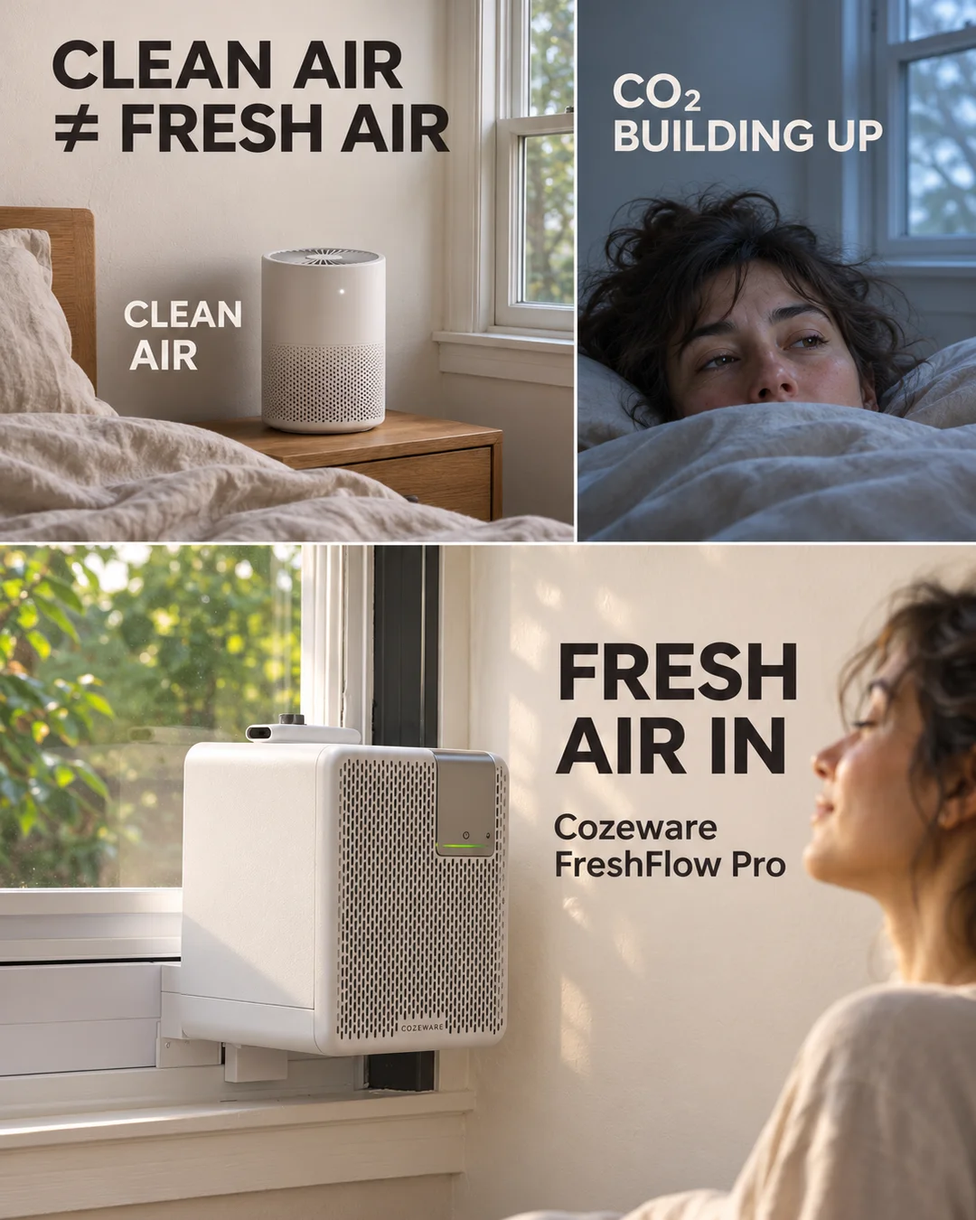
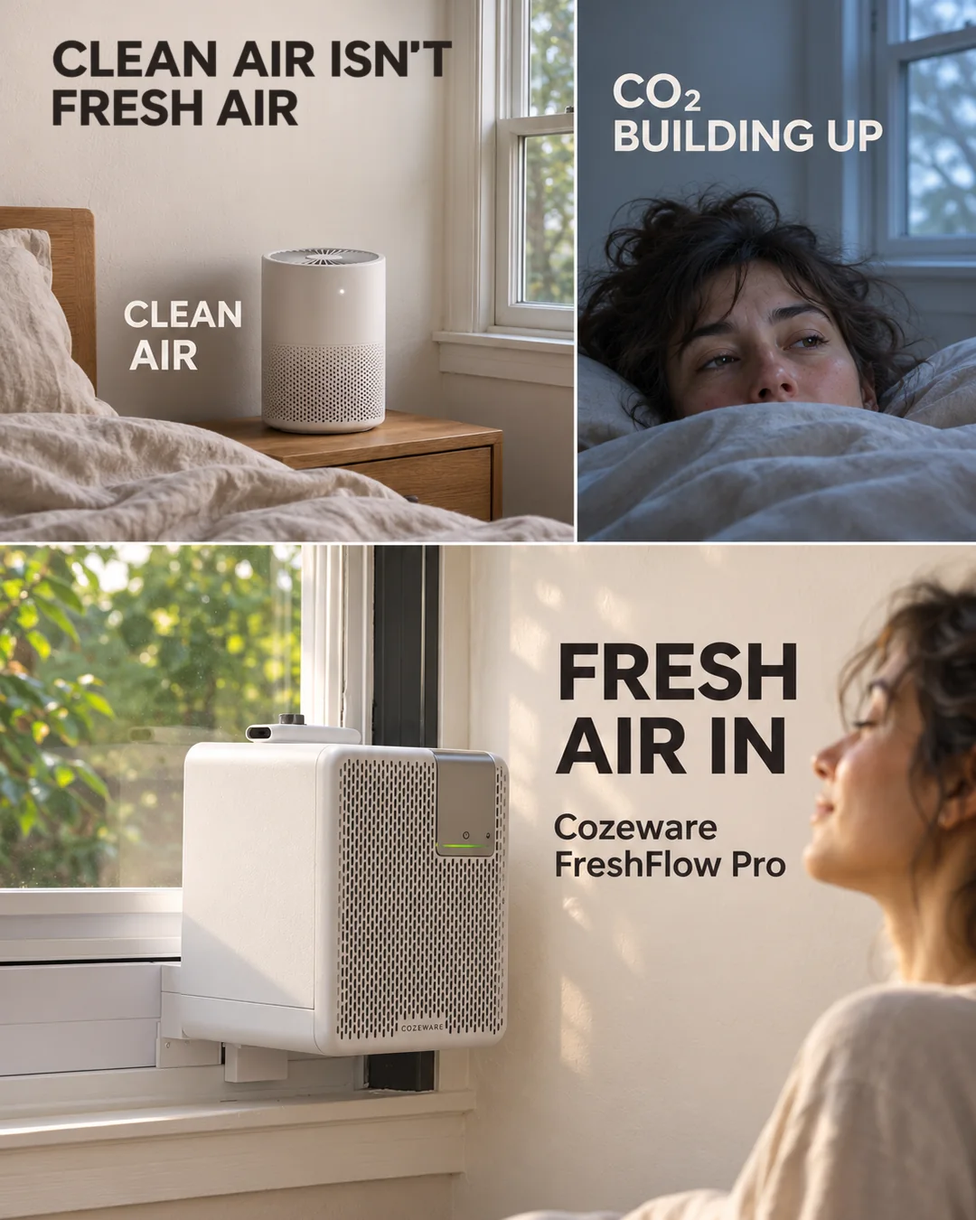
Make giveaway and boost captions conversational, drop math symbols, fix boost title image

Changed region(s): [[0.0306, 0.0311, 0.4583, 0.1244]]

diff --git a/feed-cozeware.html b/feed-cozeware.html
@@ -478,17 +478,17 @@ What is your household&#x27;s official excuse for staying in?</p></div>
 <h3 lang="en">Giveaway story: win a Stanley Quencher</h3>
 <p class="post-context"><span class="post-status" data-status="review">待审 <span lang="en">In review</span></span> · <span lang="en">2026-11-25 12:30 EST</span> · <span class="post-placement" lang="en">Instagram Stories</span></p>
 <div class="post-platforms"><div class="post-platform-switch" role="group" aria-label="平台"><button type="button" data-platform="Instagram" aria-pressed="true">Instagram</button><button type="button" data-platform="Facebook" aria-pressed="false">Facebook</button><button type="button" data-platform="X" aria-pressed="false">X</button><button type="button" data-platform="Threads" aria-pressed="false">Threads</button></div><button type="button" class="post-copy">复制配文</button></div>
-<div class="post-caption" data-feed-platform="Instagram"><p class="feed-caption" lang="en">Our cold-season thank-you to everyone keeping their home cozy: 3 winners, 1 Stanley Quencher H2.0 FlowState 40 oz each. 🧣
-What&#x27;s the one cozy thing nobody may move in your home? Answer on the launch post and tag a friend.
-Follow @cozeware + comment tagging a friend = 1 entry. Share the launch post to your Story = +1 (max 2).
-Ends Dec 1, 11:59 PM ET. US 18+, no purchase necessary. Rules in bio.</p></div>
-<div class="post-caption" data-feed-platform="Facebook" hidden><p class="feed-caption" lang="en">Our cold-season thank-you to everyone keeping their home cozy: 3 winners, 1 Stanley Quencher H2.0 FlowState 40 oz each. 🧣
-What&#x27;s the one cozy thing nobody may move in your home? Answer on the launch post and name a friend.
-Follow the Cozeware page + comment = 1 entry. Ends Dec 1, 11:59 PM ET. US 18+, no purchase necessary. Rules in the first comment.</p></div>
-<div class="post-caption" data-feed-platform="X" hidden><p class="feed-caption" lang="en">Cold-season thank-you: 3 of you win a Stanley Quencher H2.0 FlowState 40 oz. 🧣 What cozy thing in your home is off-limits? Follow @cozeware + reply tagging a friend on the launch post. Ends Dec 1, 11:59 PM ET. US 18+, no purchase necessary. Rules in bio.</p></div>
-<div class="post-caption" data-feed-platform="Threads" hidden><p class="feed-caption" lang="en">Our cold-season thank-you to everyone keeping their home cozy: 3 winners, 1 Stanley Quencher H2.0 FlowState 40 oz each. 🧣
-What&#x27;s the one cozy thing nobody may move in your home? Answer on the launch post and tag a friend.
-Follow @cozeware + reply = 1 entry. Ends Dec 1, 11:59 PM ET. US 18+, no purchase necessary. Rules in our profile.</p></div>
+<div class="post-caption" data-feed-platform="Instagram"><p class="feed-caption" lang="en">Cold-season thank-you! 🧣 We&#x27;re giving 3 of you a Stanley Quencher H2.0 FlowState 40 oz.
+What&#x27;s the one cozy thing nobody&#x27;s allowed to move in your house? Tell us on the launch post and tag a friend.
+Follow us to enter, and share the post to your Story for a bonus entry.
+Ends Dec 1, 11:59 PM ET. US 18 and up, nothing to buy. Rules in bio.</p></div>
+<div class="post-caption" data-feed-platform="Facebook" hidden><p class="feed-caption" lang="en">Cold-season thank-you! 🧣 We&#x27;re giving 3 of you a Stanley Quencher H2.0 FlowState 40 oz.
+What&#x27;s the one cozy thing nobody&#x27;s allowed to move in your house? Tell us on the launch post and name a friend.
+Follow our page to enter. Ends Dec 1, 11:59 PM ET. US 18 and up, nothing to buy. Rules in the first comment.</p></div>
+<div class="post-caption" data-feed-platform="X" hidden><p class="feed-caption" lang="en">Cold-season thank-you! 🧣 3 of you win a Stanley Quencher H2.0 FlowState 40 oz. What cozy thing at home is off-limits? Tell us on the launch post and tag a friend. Follow us to enter. Ends Dec 1, 11:59 PM ET. US 18 and up, nothing to buy. Rules in bio.</p></div>
+<div class="post-caption" data-feed-platform="Threads" hidden><p class="feed-caption" lang="en">Cold-season thank-you! 🧣 We&#x27;re giving 3 of you a Stanley Quencher H2.0 FlowState 40 oz.
+What&#x27;s the one cozy thing nobody&#x27;s allowed to move in your house? Tell us on the launch post and tag a friend.
+Follow us to enter. Ends Dec 1, 11:59 PM ET. US 18 and up, nothing to buy. Rules in our profile.</p></div>
 <p class="post-links"><a href="https://hsbrxlb.github.io/user-ops-hub/assets/feed/cozeware-ac-cz-1125-giveaway-story/1.webp" lang="en">Images</a></p>
 </div>
 </article>
@@ -516,35 +516,34 @@ FreshFlow Pro mounts in that window and brings in filtered outdoor air in Fresh 
 <h3 lang="en">Giveaway: win a Stanley Quencher</h3>
 <p class="post-context"><span class="post-status" data-status="review">待审 <span lang="en">In review</span></span> · <span lang="en">2026-11-25 12:00 EST</span></p>
 <div class="post-platforms"><div class="post-platform-switch" role="group" aria-label="平台"><button type="button" data-platform="Instagram" aria-pressed="true">Instagram</button><button type="button" data-platform="Facebook" aria-pressed="false">Facebook</button><button type="button" data-platform="X" aria-pressed="false">X</button><button type="button" data-platform="Threads" aria-pressed="false">Threads</button></div><button type="button" class="post-copy">复制配文</button></div>
-<div class="post-caption" data-feed-platform="Instagram"><p class="feed-caption" lang="en">Cold-season confession: our favorite part of this time of year is hearing how you make your home feel like a hug. 🧣
+<div class="post-caption" data-feed-platform="Instagram"><p class="feed-caption" lang="en">Okay, real talk: cold season is when you all turn your homes into little nests, and we are here for it. 🧣
 
-So, a thank-you. We&#x27;re giving 3 of you a Stanley Quencher H2.0 FlowState 40 oz, one per winner, for the people who keep the blanket pile ready and the kettle on.
+So, thank you. We&#x27;re giving 3 of you a Stanley Quencher H2.0 FlowState 40 oz. One for each winner, and no, you don&#x27;t have to share it (sharing is allowed though).
 
-Tell us: what&#x27;s the one cozy thing in your home nobody is allowed to move? (Ours is the couch blanket. Hands off.) 👇
+Tell us: what&#x27;s the one cozy thing in your house that nobody is allowed to move? Ours is the couch blanket. Don&#x27;t even look at it. 👇
 
-HOW TO ENTER
-Follow @cozeware + comment here, tagging a friend = 1 entry
-Share this post to your Story = +1 (max 2 entries)
-Ends Dec 1, 11:59 PM ET. US 18+, no purchase necessary. Rules in bio.
+Want in? Follow @cozeware and comment with your answer, tagging a friend. That&#x27;s one entry. Share this post to your Story and you get a bonus entry, so two tries at most.
+
+It closes Dec 1 at 11:59 PM ET. US only, 18 and up, and you don&#x27;t have to buy anything. Full rules are in our bio.
 Not sponsored, endorsed or administered by Instagram or Stanley.
 
 #Cozeware #Giveaway #StanleyQuencher #CozySeason #HomeComfort</p></div>
-<div class="post-caption" data-feed-platform="Facebook" hidden><p class="feed-caption" lang="en">Cold-season confession: our favorite part of this time of year is hearing how you make your home feel like a hug. 🧣
+<div class="post-caption" data-feed-platform="Facebook" hidden><p class="feed-caption" lang="en">Okay, real talk: cold season is when you all turn your homes into little nests, and we are here for it. 🧣
 
-So, a thank-you. We&#x27;re giving 3 of you a Stanley Quencher H2.0 FlowState 40 oz, one per winner, for the people who keep the blanket pile ready and the kettle on.
+So, thank you. We&#x27;re giving 3 of you a Stanley Quencher H2.0 FlowState 40 oz. One for each winner.
 
-Tell us in the comments: what&#x27;s the one cozy thing in your home nobody is allowed to move? Then name the friend who&#x27;d fight you for the spot next to it.
+Tell us in the comments: what&#x27;s the one cozy thing in your house that nobody is allowed to move? And toss in the name of the friend who&#x27;d fight you for the spot next to it.
 
-HOW TO ENTER
-Follow the Cozeware page + comment with your answer and a friend&#x27;s name = 1 entry
-Ends Dec 1, 11:59 PM ET. US 18+, no purchase necessary. Rules in the first comment.
+Want in? Follow our Cozeware page and leave that comment. That&#x27;s your entry.
+
+It closes Dec 1 at 11:59 PM ET. US only, 18 and up, and you don&#x27;t have to buy anything. Rules are in the first comment.
 Not sponsored, endorsed or administered by Facebook or Stanley.</p></div>
-<div class="post-caption" data-feed-platform="X" hidden><p class="feed-caption" lang="en">Cold-season thank-you: 3 of you win a Stanley Quencher H2.0 FlowState 40 oz. 🧣 What cozy thing in your home is off-limits to everyone else? Follow @cozeware + reply tagging a friend to enter. Ends Dec 1, 11:59 PM ET. US 18+, no purchase necessary. Rules in bio.</p></div>
-<div class="post-caption" data-feed-platform="Threads" hidden><p class="feed-caption" lang="en">Our cold-season thank-you to everyone who keeps their home cozy: 3 of you will win a Stanley Quencher H2.0 FlowState 40 oz. 🧣
+<div class="post-caption" data-feed-platform="X" hidden><p class="feed-caption" lang="en">Cold-season thank-you time! 🧣 We&#x27;re giving 3 of you a Stanley Quencher H2.0 FlowState 40 oz. Tell us the one cozy thing at home nobody&#x27;s allowed to move, and tag a friend. Follow us to enter. Ends Dec 1, 11:59 PM ET. US 18 and up, nothing to buy. Rules in bio.</p></div>
+<div class="post-caption" data-feed-platform="Threads" hidden><p class="feed-caption" lang="en">Cold season means you all turn your homes into little nests, and honestly we love it. 🧣 So, thank you: 3 of you will win a Stanley Quencher H2.0 FlowState 40 oz.
 
-What&#x27;s the one cozy thing in your home nobody&#x27;s allowed to move? Tell us, and tag the friend who&#x27;d take that spot.
+What&#x27;s the one cozy thing in your house nobody&#x27;s allowed to move? Tell us in the replies and tag a friend.
 
-Follow @cozeware + reply here tagging a friend = 1 entry. Ends Dec 1, 11:59 PM ET. US 18+, no purchase necessary. Rules in our profile.</p></div>
+Follow @cozeware to enter. Ends Dec 1 at 11:59 PM ET. US only, 18 and up, nothing to buy. Rules are in our profile.</p></div>
 <p class="post-links"><a href="https://hsbrxlb.github.io/user-ops-hub/assets/feed/cozeware-ac-cz-1125-giveaway-launch/1.webp" lang="en">Images</a></p>
 </div>
 </article>
@@ -601,23 +600,35 @@ FreshFlow Pro sits in the window with the sash down on it and brings filtered ou
 <h2 id="title-2026-11-26"><span class="day-date">11月26日</span><span class="day-week">周四</span></h2>
 <article class="post" data-post="CZ-1126-BOOST-01" data-purpose="product-promo freshflow" data-schedule-status="In review – do not post yet" id="post-CZ-1126-BOOST-01">
 <div class="post-media">
-<button class="feed-large" type="button" aria-label="查看大图" data-title="Clean air ≠ fresh air" data-pages="assets/feed/freshflow-boost-cleanfresh/1.webp"><img src="assets/feed/freshflow-boost-cleanfresh/1.webp" alt="Clean air ≠ fresh air" width="1080" height="1350" loading="lazy"></button>
+<button class="feed-large" type="button" aria-label="查看大图" data-title="Clean air isn&#x27;t fresh air" data-pages="assets/feed/freshflow-boost-cleanfresh/1.webp"><img src="assets/feed/freshflow-boost-cleanfresh/1.webp" alt="Clean air isn&#x27;t fresh air" width="1080" height="1350" loading="lazy"></button>
 </div>
 <div class="post-body">
 <ul class="post-purpose" aria-label="用途"><li data-tag="freshflow" class="is-product">新风机<span lang="en">FreshFlow</span></li><li data-tag="product-promo">产品宣传<span lang="en">Product promo</span></li></ul>
-<h3 lang="en">Clean air ≠ fresh air</h3>
+<h3 lang="en">Clean air isn&#x27;t fresh air</h3>
 <p class="post-context"><span class="post-status" data-status="review">待审 <span lang="en">In review</span></span> · <span lang="en">09:00 EST</span></p>
 <div class="post-platforms"><div class="post-platform-switch" role="group" aria-label="平台"><button type="button" data-platform="Instagram" aria-pressed="true">Instagram</button><button type="button" data-platform="Facebook" aria-pressed="false">Facebook</button><button type="button" data-platform="X" aria-pressed="false">X</button><button type="button" data-platform="Threads" aria-pressed="false">Threads</button></div><button type="button" class="post-copy">复制配文</button></div>
-<div class="post-caption" data-feed-platform="Instagram"><p class="feed-caption" lang="en">Ever walk back into the bedroom in the morning and wonder how it still feels stuffy? Your purifier spent the night filtering the air in the room. With the door and windows shut, the CO₂ we breathe out can still build up.
+<div class="post-caption" data-feed-platform="Instagram"><p class="feed-caption" lang="en">Plot twist: your purifier is doing its job and your bedroom still feels stuffy. 😅
 
-FreshFlow Pro fits into a compatible window and brings filtered outdoor air inside while the sash stays closed around it. Follow Cozeware for more little ways to make your home feel comfortable.</p></div>
-<div class="post-caption" data-feed-platform="Facebook" hidden><p class="feed-caption" lang="en">Ever walk back into the bedroom in the morning and wonder how it still feels stuffy? Your purifier spent the night filtering the air in the room. With the door and windows shut, the CO₂ we breathe out can still build up.
+A purifier cleans the air that&#x27;s already in the room. But with the door and windows shut, the CO₂ we breathe out can still build up. So it&#x27;s clean air, just not fresh air.
 
-FreshFlow Pro fits into a compatible window and brings filtered outdoor air inside while the sash stays closed around it. Follow Cozeware for more little ways to make your home feel comfortable.</p></div>
-<div class="post-caption" data-feed-platform="X" hidden><p class="feed-caption" lang="en">Clean air ≠ fresh air. A purifier filters the air already in the room, but with doors and windows shut, the CO₂ we breathe out can still build up. FreshFlow Pro brings filtered outdoor air in through a compatible window.</p></div>
-<div class="post-caption" data-feed-platform="Threads" hidden><p class="feed-caption" lang="en">Ever walk back into the bedroom in the morning and wonder how it still feels stuffy? Your purifier spent the night filtering the air in the room. With the door and windows shut, the CO₂ we breathe out can still build up.
+FreshFlow Pro sits in a compatible window and brings filtered outdoor air inside while the sash stays closed around it.
 
-FreshFlow Pro fits into a compatible window and brings filtered outdoor air inside while the sash stays closed around it. Follow Cozeware for more little ways to make your home feel comfortable.</p></div>
+Be honest: do you crack a window at night anyway? Follow Cozeware for more little ways to make home feel comfortable.</p></div>
+<div class="post-caption" data-feed-platform="Facebook" hidden><p class="feed-caption" lang="en">Plot twist: your purifier is doing its job and your bedroom still feels stuffy. 😅
+
+A purifier cleans the air that&#x27;s already in the room. But with the door and windows shut, the CO₂ we breathe out can still build up. So it&#x27;s clean air, just not fresh air.
+
+FreshFlow Pro sits in a compatible window and brings filtered outdoor air inside while the sash stays closed around it.
+
+Be honest: do you crack a window at night anyway? Follow Cozeware for more little ways to make home feel comfortable.</p></div>
+<div class="post-caption" data-feed-platform="X" hidden><p class="feed-caption" lang="en">Clean air isn&#x27;t fresh air. 😅 A purifier cleans the air already in the room, but with the doors and windows shut, the CO₂ we breathe out can still build up. FreshFlow Pro brings filtered outdoor air in through a compatible window.</p></div>
+<div class="post-caption" data-feed-platform="Threads" hidden><p class="feed-caption" lang="en">Plot twist: your purifier is doing its job and your bedroom still feels stuffy. 😅
+
+A purifier cleans the air that&#x27;s already in the room. But with the door and windows shut, the CO₂ we breathe out can still build up. So it&#x27;s clean air, just not fresh air.
+
+FreshFlow Pro sits in a compatible window and brings filtered outdoor air inside while the sash stays closed around it.
+
+Be honest: do you crack a window at night anyway? Follow Cozeware for more little ways to make home feel comfortable.</p></div>
 <p class="post-links"><a href="https://hsbrxlb.github.io/user-ops-hub/assets/feed/freshflow-boost-cleanfresh/1.webp" lang="en">Images</a></p>
 </div>
 </article>
@@ -759,35 +770,34 @@ FreshFlow Pro fits into a compatible window and brings filtered outdoor air insi
 <h3 lang="en">Last call: Stanley Quencher giveaway ends tonight</h3>
 <p class="post-context"><span class="post-status" data-status="review">待审 <span lang="en">In review</span></span> · <span lang="en">2026-12-01 09:00 EST</span></p>
 <div class="post-platforms"><div class="post-platform-switch" role="group" aria-label="平台"><button type="button" data-platform="Instagram" aria-pressed="true">Instagram</button><button type="button" data-platform="Facebook" aria-pressed="false">Facebook</button><button type="button" data-platform="X" aria-pressed="false">X</button><button type="button" data-platform="Threads" aria-pressed="false">Threads</button></div><button type="button" class="post-copy">复制配文</button></div>
-<div class="post-caption" data-feed-platform="Instagram"><p class="feed-caption" lang="en">Last call, cozy people. ☕ The giveaway closes tonight at 11:59 PM ET.
+<div class="post-caption" data-feed-platform="Instagram"><p class="feed-caption" lang="en">Last call, cozy people! ☕ The giveaway closes tonight at 11:59 PM ET.
 
-We&#x27;ve been reading your answers with a warm drink in hand, and it&#x27;s made our week. 3 of you will win a Stanley Quencher H2.0 FlowState 40 oz as our thank-you for keeping your homes cozy.
+We&#x27;ve been reading your answers with a warm drink in hand and honestly, you made our week. 3 of you will win a Stanley Quencher H2.0 FlowState 40 oz, our thank-you for keeping your homes so cozy.
 
-Not in yet? Tell us your December-night ritual (blanket, show, snack, go) on the launch post and tag a friend. 👇
+Haven&#x27;t jumped in yet? Tell us your December night ritual (blanket, show, snack, go) on the launch post and tag a friend. 👇
 
-HOW TO ENTER
-Follow @cozeware + comment on the launch post, tagging a friend = 1 entry
-Share the launch post to your Story = +1 (max 2 entries)
-Ends tonight, Dec 1, 11:59 PM ET. US 18+, no purchase necessary. Rules in bio.
+To enter, follow @cozeware and comment on the launch post, tagging a friend. Share the post to your Story for a bonus entry, two tries at most.
+
+Closes tonight, Dec 1, at 11:59 PM ET. US only, 18 and up, nothing to buy. Rules are in our bio.
 Not sponsored, endorsed or administered by Instagram or Stanley.
 
 #Cozeware #Giveaway #StanleyQuencher #LastCall</p></div>
-<div class="post-caption" data-feed-platform="Facebook" hidden><p class="feed-caption" lang="en">Last call, cozy people. ☕ The giveaway closes tonight at 11:59 PM ET.
+<div class="post-caption" data-feed-platform="Facebook" hidden><p class="feed-caption" lang="en">Last call, cozy people! ☕ The giveaway closes tonight at 11:59 PM ET.
 
-We&#x27;ve been reading your answers with a warm drink in hand, and it&#x27;s made our week. 3 of you will win a Stanley Quencher H2.0 FlowState 40 oz as our thank-you for keeping your homes cozy.
+We&#x27;ve been reading your answers with a warm drink in hand and honestly, you made our week. 3 of you will win a Stanley Quencher H2.0 FlowState 40 oz, our thank-you for keeping your homes so cozy.
 
-Not in yet? Tell us your December-night ritual (blanket, show, snack, go) on the launch post and name a friend.
+Haven&#x27;t jumped in yet? Tell us your December night ritual (blanket, show, snack, go) on the launch post and name a friend.
 
-HOW TO ENTER
-Follow the Cozeware page + comment on the launch post with your answer and a friend&#x27;s name = 1 entry
-Ends tonight, Dec 1, 11:59 PM ET. US 18+, no purchase necessary. Rules in the first comment.
+To enter, follow our Cozeware page and leave that comment on the launch post.
+
+Closes tonight, Dec 1, at 11:59 PM ET. US only, 18 and up, nothing to buy. Rules are in the first comment.
 Not sponsored, endorsed or administered by Facebook or Stanley.</p></div>
-<div class="post-caption" data-feed-platform="X" hidden><p class="feed-caption" lang="en">Last call, cozy people. ☕ Tonight 11:59 PM ET: 3 of you win a Stanley Quencher H2.0 FlowState 40 oz. What&#x27;s your December-night ritual? Follow @cozeware + reply on the launch post tagging a friend. US 18+, no purchase necessary. Rules in bio.</p></div>
-<div class="post-caption" data-feed-platform="Threads" hidden><p class="feed-caption" lang="en">Last call, cozy people. ☕ The giveaway closes tonight at 11:59 PM ET, and 3 of you will win a Stanley Quencher H2.0 FlowState 40 oz.
+<div class="post-caption" data-feed-platform="X" hidden><p class="feed-caption" lang="en">Last call, cozy people! ☕ Tonight at 11:59 PM ET, 3 of you win a Stanley Quencher H2.0 FlowState 40 oz. What&#x27;s your December night ritual? Tell us on the launch post and tag a friend. Follow us to enter. US 18 and up, nothing to buy. Rules in bio.</p></div>
+<div class="post-caption" data-feed-platform="Threads" hidden><p class="feed-caption" lang="en">Last call, cozy people! ☕ The giveaway closes tonight at 11:59 PM ET, and 3 of you will win a Stanley Quencher H2.0 FlowState 40 oz.
 
-What&#x27;s your December-night ritual (blanket, show, snack, go)? Tell us on the launch post and tag a friend.
+What&#x27;s your December night ritual (blanket, show, snack, go)? Tell us on the launch post and tag a friend.
 
-Follow @cozeware + reply = 1 entry. Ends tonight, Dec 1, 11:59 PM ET. US 18+, no purchase necessary. Rules in our profile.</p></div>
+Follow @cozeware to enter. US only, 18 and up, nothing to buy. Rules are in our profile.</p></div>
 <p class="post-links"><a href="https://hsbrxlb.github.io/user-ops-hub/assets/feed/cozeware-ac-cz-1201-giveaway-reminder/1.webp" lang="en">Images</a></p>
 </div>
 </article>

diff --git a/feed-oedro.html b/feed-oedro.html
@@ -476,35 +476,34 @@ One OEDRO running board later: “Tell them I drove.”</p></div>
 <h3 lang="en">Giveaway: win a LEGO Ferrari 488 Pista</h3>
 <p class="post-context"><span class="post-status" data-status="review">待审 <span lang="en">In review</span></span> · <span lang="en">2026-11-25 12:00 EST</span></p>
 <div class="post-platforms"><div class="post-platform-switch" role="group" aria-label="平台"><button type="button" data-platform="Instagram" aria-pressed="true">Instagram</button><button type="button" data-platform="Facebook" aria-pressed="false">Facebook</button><button type="button" data-platform="X" aria-pressed="false">X</button><button type="button" data-platform="Threads" aria-pressed="false">Threads</button></div><button type="button" class="post-copy">复制配文</button></div>
-<div class="post-caption" data-feed-platform="Instagram"><p class="feed-caption" lang="en">Holiday season means miles: grocery runs, airport pickups, a bed full of boxes, a back seat full of &quot;are we there yet.&quot; 🛻
+<div class="post-caption" data-feed-platform="Instagram"><p class="feed-caption" lang="en">Holidays are basically a month of driving, right? Grocery runs, airport pickups, a bed full of boxes, a back seat going &quot;are we there yet.&quot; 🛻
 
-Thank you for putting your trucks and SUVs to work all year. To say it properly, we&#x27;re giving 3 of you a LEGO® Technic Ferrari 488 Pista to build when the holiday dust settles, one per winner.
+So, thank you for putting your truck or SUV to work all year. We&#x27;re giving 3 of you a LEGO® Technic Ferrari 488 Pista to build once the holiday chaos calms down. One for each winner.
 
-Tell us: what&#x27;s the first thing that goes in your truck when a holiday trip starts? (Cooler? Blanket? The kid with &quot;one more thing&quot;?) 👇
+Tell us: what&#x27;s the first thing that goes in your truck when a holiday trip starts? Cooler? Blanket? The kid with &quot;just one more thing&quot;? 👇
 
-HOW TO ENTER
-Follow @oedroautoparts + comment here, tagging a friend = 1 entry
-Share this post to your Story = +1 (max 2 entries)
-Ends Dec 1, 11:59 PM ET. US 18+, no purchase necessary. Rules in bio.
+Want in? Follow @oedroautoparts and comment with your answer, tagging a friend. That&#x27;s one entry. Share this post to your Story and you get a bonus entry, so two tries at most.
+
+It closes Dec 1 at 11:59 PM ET. US only, 18 and up, and you don&#x27;t have to buy anything. Full rules are in our bio.
 Not sponsored, endorsed or administered by Instagram or the LEGO Group.
 
 #OEDRO #Giveaway #LEGOTechnic #Ferrari488Pista #TruckLife</p></div>
-<div class="post-caption" data-feed-platform="Facebook" hidden><p class="feed-caption" lang="en">Holiday season means miles: grocery runs, airport pickups, a bed full of boxes, a back seat full of &quot;are we there yet.&quot; 🛻
+<div class="post-caption" data-feed-platform="Facebook" hidden><p class="feed-caption" lang="en">Holidays are basically a month of driving, right? Grocery runs, airport pickups, a bed full of boxes, a back seat going &quot;are we there yet.&quot; 🛻
 
-Thank you for putting your trucks and SUVs to work all year. To say it properly, we&#x27;re giving 3 of you a LEGO® Technic Ferrari 488 Pista to build when the holiday dust settles, one per winner.
+So, thank you for putting your truck or SUV to work all year. We&#x27;re giving 3 of you a LEGO® Technic Ferrari 488 Pista to build once the holiday chaos calms down. One for each winner.
 
-Tell us in the comments: what&#x27;s the first thing that goes in your truck when a holiday trip starts? Then name the friend you&#x27;d build it with.
+Tell us in the comments: what&#x27;s the first thing that goes in your truck when a holiday trip starts? And toss in the name of the friend you&#x27;d build it with.
 
-HOW TO ENTER
-Follow the OEDRO page + comment with your answer and a friend&#x27;s name = 1 entry
-Ends Dec 1, 11:59 PM ET. US 18+, no purchase necessary. Rules in the first comment.
+Want in? Follow our OEDRO page and leave that comment. That&#x27;s your entry.
+
+It closes Dec 1 at 11:59 PM ET. US only, 18 and up, and you don&#x27;t have to buy anything. Rules are in the first comment.
 Not sponsored, endorsed or administered by Facebook or the LEGO Group.</p></div>
-<div class="post-caption" data-feed-platform="X" hidden><p class="feed-caption" lang="en">Holiday thank-you to the truck and SUV crowd: 3 of you win a LEGO® Technic Ferrari 488 Pista. 🛻 First thing in your truck for a holiday trip? Follow @Oedroautoparts + reply tagging a friend to enter. Ends Dec 1, 11:59 PM ET. US 18+, no purchase necessary. Rules in bio.</p></div>
-<div class="post-caption" data-feed-platform="Threads" hidden><p class="feed-caption" lang="en">Our holiday thank-you to everyone who puts a truck or SUV to work: 3 of you will win a LEGO® Technic Ferrari 488 Pista. 🛻
+<div class="post-caption" data-feed-platform="X" hidden><p class="feed-caption" lang="en">Holiday thank-you to everyone who puts a truck or SUV to work! 🛻 3 of you win a LEGO® Technic Ferrari 488 Pista. First thing you toss in the truck for a trip? Tell us and tag a friend. Follow us to enter. Ends Dec 1, 11:59 PM ET. US 18 and up, nothing to buy. Rules in bio.</p></div>
+<div class="post-caption" data-feed-platform="Threads" hidden><p class="feed-caption" lang="en">Holidays are basically a month of driving. 🛻 So, thank you to everyone who puts a truck or SUV to work: 3 of you will win a LEGO® Technic Ferrari 488 Pista.
 
-What&#x27;s the first thing that goes in your truck when a holiday trip starts? Tell us, and tag the friend you&#x27;d build it with.
+What&#x27;s the first thing that goes in your truck when a holiday trip starts? Tell us in the replies and tag the friend you&#x27;d build it with.
 
-Follow @oedroautoparts + reply here tagging a friend = 1 entry. Ends Dec 1, 11:59 PM ET. US 18+, no purchase necessary. Rules in our profile.</p></div>
+Follow @oedroautoparts to enter. Ends Dec 1 at 11:59 PM ET. US only, 18 and up, nothing to buy. Rules are in our profile.</p></div>
 <p class="post-links"><a href="https://hsbrxlb.github.io/user-ops-hub/assets/feed/oedro-oe-1125-giveaway-launch/1.webp" lang="en">Images</a></p>
 </div>
 </article>
@@ -516,17 +515,17 @@ Follow @oedroautoparts + reply here tagging a friend = 1 entry. Ends Dec 1, 11:5
 <h3 lang="en">Giveaway story: win a LEGO Ferrari</h3>
 <p class="post-context"><span class="post-status" data-status="review">待审 <span lang="en">In review</span></span> · <span lang="en">2026-11-25 12:30 EST</span> · <span class="post-placement" lang="en">Instagram Stories</span></p>
 <div class="post-platforms"><div class="post-platform-switch" role="group" aria-label="平台"><button type="button" data-platform="Instagram" aria-pressed="true">Instagram</button><button type="button" data-platform="Facebook" aria-pressed="false">Facebook</button><button type="button" data-platform="X" aria-pressed="false">X</button><button type="button" data-platform="Threads" aria-pressed="false">Threads</button></div><button type="button" class="post-copy">复制配文</button></div>
-<div class="post-caption" data-feed-platform="Instagram"><p class="feed-caption" lang="en">Our holiday thank-you to everyone who puts a truck or SUV to work: 3 winners, 1 LEGO® Technic Ferrari 488 Pista each. 🛻
-First thing in your truck when a holiday trip starts? Answer on the launch post and tag a friend.
-Follow @oedroautoparts + comment tagging a friend = 1 entry. Share the launch post to your Story = +1 (max 2).
-Ends Dec 1, 11:59 PM ET. US 18+, no purchase necessary. Rules in bio.</p></div>
-<div class="post-caption" data-feed-platform="Facebook" hidden><p class="feed-caption" lang="en">Our holiday thank-you to everyone who puts a truck or SUV to work: 3 winners, 1 LEGO® Technic Ferrari 488 Pista each. 🛻
-First thing in your truck when a holiday trip starts? Answer on the launch post and name a friend.
-Follow the OEDRO page + comment = 1 entry. Ends Dec 1, 11:59 PM ET. US 18+, no purchase necessary. Rules in the first comment.</p></div>
-<div class="post-caption" data-feed-platform="X" hidden><p class="feed-caption" lang="en">Holiday thank-you to the truck and SUV crowd: 3 of you win a LEGO® Technic Ferrari 488 Pista. 🛻 First thing in your truck for a trip? Follow @Oedroautoparts + reply tagging a friend on the launch post. Ends Dec 1, 11:59 PM ET. US 18+, no purchase necessary. Rules in bio.</p></div>
-<div class="post-caption" data-feed-platform="Threads" hidden><p class="feed-caption" lang="en">Our holiday thank-you to everyone who puts a truck or SUV to work: 3 winners, 1 LEGO® Technic Ferrari 488 Pista each. 🛻
-First thing in your truck when a holiday trip starts? Answer on the launch post and tag a friend.
-Follow @oedroautoparts + reply = 1 entry. Ends Dec 1, 11:59 PM ET. US 18+, no purchase necessary. Rules in our profile.</p></div>
+<div class="post-caption" data-feed-platform="Instagram"><p class="feed-caption" lang="en">Holiday thank-you! 🛻 We&#x27;re giving 3 of you a LEGO® Technic Ferrari 488 Pista.
+What&#x27;s the first thing in your truck when a holiday trip starts? Tell us on the launch post and tag a friend.
+Follow us to enter, and share the post to your Story for a bonus entry.
+Ends Dec 1, 11:59 PM ET. US 18 and up, nothing to buy. Rules in bio.</p></div>
+<div class="post-caption" data-feed-platform="Facebook" hidden><p class="feed-caption" lang="en">Holiday thank-you! 🛻 We&#x27;re giving 3 of you a LEGO® Technic Ferrari 488 Pista.
+What&#x27;s the first thing in your truck when a holiday trip starts? Tell us on the launch post and name a friend.
+Follow our page to enter. Ends Dec 1, 11:59 PM ET. US 18 and up, nothing to buy. Rules in the first comment.</p></div>
+<div class="post-caption" data-feed-platform="X" hidden><p class="feed-caption" lang="en">Holiday thank-you! 🛻 3 of you win a LEGO® Technic Ferrari 488 Pista. First thing in your truck for a trip? Tell us on the launch post and tag a friend. Follow us to enter. Ends Dec 1, 11:59 PM ET. US 18 and up, nothing to buy. Rules in bio.</p></div>
+<div class="post-caption" data-feed-platform="Threads" hidden><p class="feed-caption" lang="en">Holiday thank-you! 🛻 We&#x27;re giving 3 of you a LEGO® Technic Ferrari 488 Pista.
+What&#x27;s the first thing in your truck when a holiday trip starts? Tell us on the launch post and tag a friend.
+Follow us to enter. Ends Dec 1, 11:59 PM ET. US 18 and up, nothing to buy. Rules in our profile.</p></div>
 <p class="post-links"><a href="https://hsbrxlb.github.io/user-ops-hub/assets/feed/oedro-oe-1125-giveaway-story/1.webp" lang="en">Images</a></p>
 </div>
 </article>
@@ -678,35 +677,34 @@ Somebody celebrated one click too early.</p></div>
 <h3 lang="en">Last call: LEGO Ferrari giveaway ends tonight</h3>
 <p class="post-context"><span class="post-status" data-status="review">待审 <span lang="en">In review</span></span> · <span lang="en">2026-12-01 09:00 EST</span></p>
 <div class="post-platforms"><div class="post-platform-switch" role="group" aria-label="平台"><button type="button" data-platform="Instagram" aria-pressed="true">Instagram</button><button type="button" data-platform="Facebook" aria-pressed="false">Facebook</button><button type="button" data-platform="X" aria-pressed="false">X</button><button type="button" data-platform="Threads" aria-pressed="false">Threads</button></div><button type="button" class="post-copy">复制配文</button></div>
-<div class="post-caption" data-feed-platform="Instagram"><p class="feed-caption" lang="en">Last call, truck folks. 🛻 The giveaway closes tonight at 11:59 PM ET.
+<div class="post-caption" data-feed-platform="Instagram"><p class="feed-caption" lang="en">Last call, truck folks! 🛻 The giveaway closes tonight at 11:59 PM ET.
 
-We&#x27;ve loved reading what rides along on your holiday trips. 3 of you will win a LEGO® Technic Ferrari 488 Pista as our thank-you for putting your trucks and SUVs to work all year.
+We&#x27;ve loved hearing what rides along on your holiday trips. 3 of you will win a LEGO® Technic Ferrari 488 Pista, our thank-you for putting your trucks and SUVs to work all year.
 
-Not in yet? Tell us the one thing you never leave without on a long drive, on the launch post, and tag a friend. 👇
+Haven&#x27;t jumped in yet? Tell us the one thing you never leave without on a long drive, on the launch post, and tag a friend. 👇
 
-HOW TO ENTER
-Follow @oedroautoparts + comment on the launch post, tagging a friend = 1 entry
-Share the launch post to your Story = +1 (max 2 entries)
-Ends tonight, Dec 1, 11:59 PM ET. US 18+, no purchase necessary. Rules in bio.
+To enter, follow @oedroautoparts and comment on the launch post, tagging a friend. Share the post to your Story for a bonus entry, two tries at most.
+
+Closes tonight, Dec 1, at 11:59 PM ET. US only, 18 and up, nothing to buy. Rules are in our bio.
 Not sponsored, endorsed or administered by Instagram or the LEGO Group.
 
 #OEDRO #Giveaway #LEGOTechnic #LastCall</p></div>
-<div class="post-caption" data-feed-platform="Facebook" hidden><p class="feed-caption" lang="en">Last call, truck folks. 🛻 The giveaway closes tonight at 11:59 PM ET.
+<div class="post-caption" data-feed-platform="Facebook" hidden><p class="feed-caption" lang="en">Last call, truck folks! 🛻 The giveaway closes tonight at 11:59 PM ET.
 
-We&#x27;ve loved reading what rides along on your holiday trips. 3 of you will win a LEGO® Technic Ferrari 488 Pista as our thank-you for putting your trucks and SUVs to work all year.
+We&#x27;ve loved hearing what rides along on your holiday trips. 3 of you will win a LEGO® Technic Ferrari 488 Pista, our thank-you for putting your trucks and SUVs to work all year.
 
-Not in yet? Tell us the one thing you never leave without on a long drive, on the launch post, and name a friend.
+Haven&#x27;t jumped in yet? Tell us the one thing you never leave without on a long drive, on the launch post, and name a friend.
 
-HOW TO ENTER
-Follow the OEDRO page + comment on the launch post with your answer and a friend&#x27;s name = 1 entry
-Ends tonight, Dec 1, 11:59 PM ET. US 18+, no purchase necessary. Rules in the first comment.
+To enter, follow our OEDRO page and leave that comment on the launch post.
+
+Closes tonight, Dec 1, at 11:59 PM ET. US only, 18 and up, nothing to buy. Rules are in the first comment.
 Not sponsored, endorsed or administered by Facebook or the LEGO Group.</p></div>
-<div class="post-caption" data-feed-platform="X" hidden><p class="feed-caption" lang="en">Last call, truck folks. 🛻 Tonight 11:59 PM ET: 3 of you win a LEGO® Technic Ferrari 488 Pista. What do you never leave home without on a long drive? Follow @Oedroautoparts + reply on the launch post tagging a friend. US 18+, no purchase necessary. Rules in bio.</p></div>
-<div class="post-caption" data-feed-platform="Threads" hidden><p class="feed-caption" lang="en">Last call, truck folks. 🛻 The giveaway closes tonight at 11:59 PM ET, and 3 of you will win a LEGO® Technic Ferrari 488 Pista.
+<div class="post-caption" data-feed-platform="X" hidden><p class="feed-caption" lang="en">Last call, truck folks! 🛻 Tonight at 11:59 PM ET, 3 of you win a LEGO® Technic Ferrari 488 Pista. What do you never leave home without on a long drive? Tell us on the launch post and tag a friend. Follow us to enter. US 18 and up, nothing to buy. Rules in bio.</p></div>
+<div class="post-caption" data-feed-platform="Threads" hidden><p class="feed-caption" lang="en">Last call, truck folks! 🛻 The giveaway closes tonight at 11:59 PM ET, and 3 of you will win a LEGO® Technic Ferrari 488 Pista.
 
 What do you never leave without on a long drive? Tell us on the launch post and tag a friend.
 
-Follow @oedroautoparts + reply = 1 entry. Ends tonight, Dec 1, 11:59 PM ET. US 18+, no purchase necessary. Rules in our profile.</p></div>
+Follow @oedroautoparts to enter. US only, 18 and up, nothing to buy. Rules are in our profile.</p></div>
 <p class="post-links"><a href="https://hsbrxlb.github.io/user-ops-hub/assets/feed/oedro-oe-1201-giveaway-reminder/1.webp" lang="en">Images</a></p>
 </div>
 </article>
